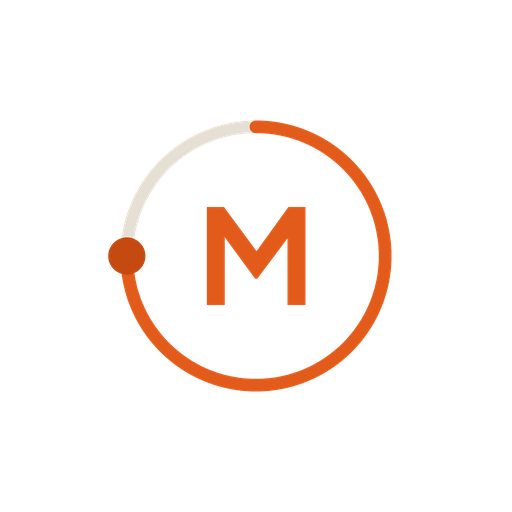
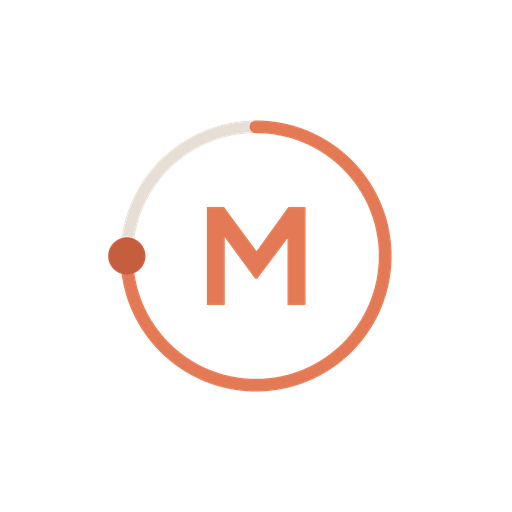
style: abricot du soir #E37A55, papier #F7F1EA, bord #E7DFD6

Changed region(s): [[0.1875, 0.2188, 0.7812, 0.7812], [0.4062, 0.4062, 0.625, 0.5938]]

diff --git a/src/theme/colors.ts b/src/theme/colors.ts
@@ -1,12 +1,12 @@
 export const colors = {
-  /** Fond d’écran — papier #F6F1E8 ; cartes, champs et pastilles en blanc + liseré `border` */
-  background: '#F6F1E8',
+  /** Fond d’écran — papier #F7F1EA ; cartes, champs et pastilles en blanc + liseré `border` */
+  background: '#F7F1EA',
   surface: '#FFFFFF',
   /** Surfaces secondaires — blanc + liseré `border` (un blanc, un noir, un orange) */
   surfaceMuted: '#FFFFFF',
-  /** Orange #E25B1A — uniquement : bouton principal, mot accent, onglet actif, engrenage, pastille active */
-  primary: '#E25B1A',
-  primaryDark: '#C44A12',
+  /** Abricot #E37A55 — uniquement : bouton principal, mot accent, onglet actif, engrenage, pastille active */
+  primary: '#E37A55',
+  primaryDark: '#C45E3C',
   /** Ancien vert pâle → blanc (l’orange est réservé : CTA, mot accent, onglet actif, engrenage, pastille active) */
   primarySoft: '#FFFFFF',
   /** Texte principal — encre #1C1917 */
@@ -15,8 +15,8 @@ export const colors = {
   textSecondary: '#6F675E',
   /** Légendes / placeholders — même #6F675E (contraste ≥ 4.5 sur blanc) */
   textMuted: '#6F675E',
-  /** Bordures / liserés 1px — #E6DFD4 (cartes, champs, pastilles) */
-  border: '#E6DFD4',
+  /** Bordures / liserés 1px — #E7DFD6 (cartes, champs, pastilles) */
+  border: '#E7DFD6',
   /**
    * Pas de token « success » : une confirmation = coche + texte foncé
    * sur fond blanc (CheckNote). L’orange plein reste réservé au CTA.
@@ -28,12 +28,12 @@ export const colors = {
   /** Erreur / danger — countdown 10 min, no-show, clôturer, erreurs */
   danger: '#9B2C2C',
   dangerSoft: '#FFFFFF',
-  /** Pastille inactive : fond blanc, bord #E6DFD4, texte #1C1917 */
+  /** Pastille inactive : fond blanc, bord #E7DFD6, texte #1C1917 */
   chip: '#FFFFFF',
-  chipBorder: '#E6DFD4',
+  chipBorder: '#E7DFD6',
   chipText: '#1C1917',
-  /** Pastille active : fond orange #E25B1A, texte blanc */
-  chipActive: '#E25B1A',
+  /** Pastille active : fond abricot #E37A55, texte blanc */
+  chipActive: '#E37A55',
   chipActiveText: '#FFFFFF',
   overlay: 'rgba(28, 25, 23, 0.45)',
   tabInactive: '#6F675E',

diff --git a/src/components/PillsWithOther.tsx b/src/components/PillsWithOther.tsx
@@ -228,10 +228,10 @@ const styles = StyleSheet.create({
     alignItems: 'center',
   },
   pillCompact: { minHeight: 34, paddingHorizontal: spacing.md },
-  /** Inactive : fond blanc, bord #E6DFD4, texte #1C1917. */
+  /** Inactive : fond blanc, bord #E7DFD6, texte #1C1917. */
   pillChip: { backgroundColor: colors.chip, borderColor: colors.chipBorder },
   pillOutline: { backgroundColor: colors.chip, borderColor: colors.chipBorder },
-  /** Active : fond orange #E25B1A, texte blanc. */
+  /** Active : fond abricot #E37A55, texte blanc. */
   pillOn: { backgroundColor: colors.chipActive, borderColor: colors.chipActive },
   pressed: { opacity: 0.88 },
   pillText: {

diff --git a/src/components/Button.tsx b/src/components/Button.tsx
@@ -86,7 +86,7 @@ const styles = StyleSheet.create({
 
 const variantStyles = StyleSheet.create({
   primary: { backgroundColor: colors.primary },
-  /** Secondaire = pilule contour #E6DFD4, texte #1C1917 (l’orange reste au bouton principal). */
+  /** Secondaire = pilule contour #E7DFD6, texte #1C1917 (l’orange reste au bouton principal). */
   secondary: {
     backgroundColor: colors.surface,
     borderWidth: 1,

diff --git a/src/components/PersonCard.tsx b/src/components/PersonCard.tsx
@@ -139,7 +139,7 @@ const styles = StyleSheet.create({
     color: colors.textSecondary,
     marginTop: spacing.xs,
   },
-  /** Pastille neutre : blanc + liseré #E6DFD4, texte #1C1917. */
+  /** Pastille neutre : blanc + liseré #E7DFD6, texte #1C1917. */
   pill: {
     alignSelf: 'flex-start',
     marginTop: spacing.md,
